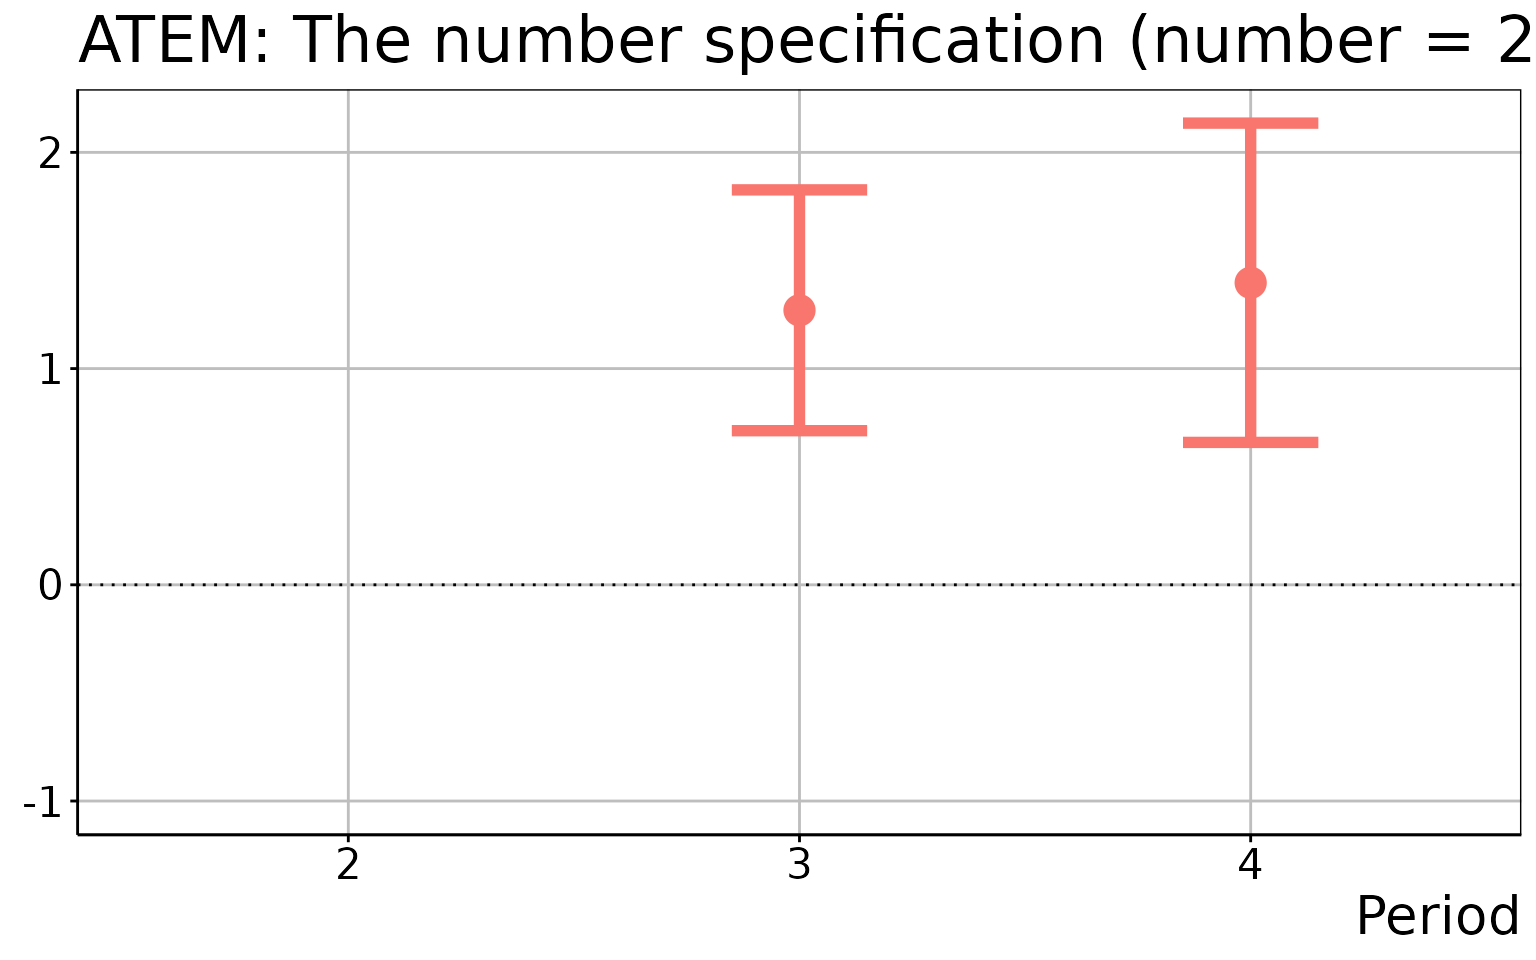
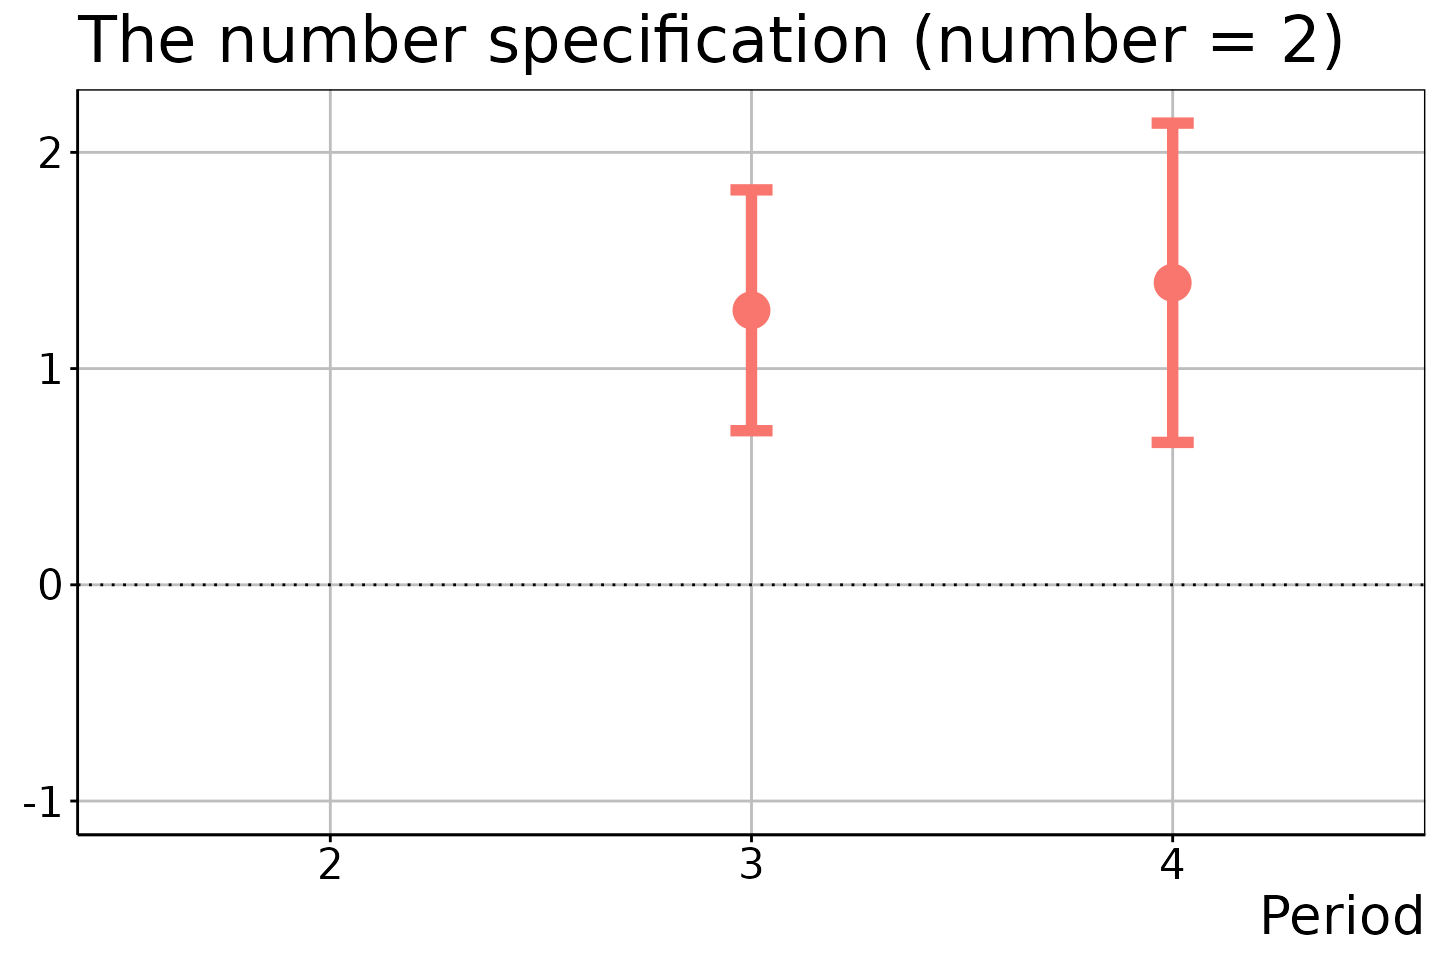
Deploying to gh-pages from @ tkhdyanagi/didet@1dc44ba9ccc61eaddae781d1908e3cdb4ddc4855 🚀

diff --git a/articles/didet.html b/articles/didet.html
@@ -26,7 +26,7 @@
     
     <a class="navbar-brand me-2" href="../index.html">didet</a>
 
-    <small class="nav-text text-muted me-auto" data-bs-toggle="tooltip" data-bs-placement="bottom" title="">0.1.3</small>
+    <small class="nav-text text-muted me-auto" data-bs-toggle="tooltip" data-bs-placement="bottom" title="">0.1.4</small>
 
     
     <button class="navbar-toggler" type="button" data-bs-toggle="collapse" data-bs-target="#navbar" aria-controls="navbar" aria-expanded="false" aria-label="Toggle navigation">
@@ -156,7 +156,8 @@ results for the probabilities of being movers.</li>
 <code>stayer</code>: A data.frame that collects the estimation
 results for the probabilities of being stayers.</li>
 <li>
-<code>figure</code>: A list that contains the figures for <span class="math inline">\(\mathrm{ATEM}(t,s,e)\)</span> and <span class="math inline">\(\mathrm{ATEM}(t, s, r, e)\)</span>.</li>
+<code>figure</code>: A list that contains the ggplot2 figures for
+<span class="math inline">\(\mathrm{ATEM}(t,s,e)\)</span> and <span class="math inline">\(\mathrm{ATEM}(t, s, r, e)\)</span>.</li>
 </ul>
 </div>
 </div>
@@ -224,15 +225,15 @@ approximately 0 under the parallel trends assumption.</p>
 <div class="sourceCode" id="cb5"><pre class="downlit sourceCode r">
 <code class="sourceCode R"><span><span class="co"># Event date = 2</span></span>
 <span><span class="va">did_est</span><span class="op">$</span><span class="va">figure</span><span class="op">$</span><span class="va">e2</span></span></code></pre></div>
-<p><img src="didet_files/figure-html/unnamed-chunk-6-1.png" width="768"></p>
+<p><img src="didet_files/figure-html/unnamed-chunk-6-1.png" width="720"></p>
 <div class="sourceCode" id="cb6"><pre class="downlit sourceCode r">
 <code class="sourceCode R"><span><span class="co"># Event date = 3</span></span>
 <span><span class="va">did_est</span><span class="op">$</span><span class="va">figure</span><span class="op">$</span><span class="va">e3</span></span></code></pre></div>
-<p><img src="didet_files/figure-html/unnamed-chunk-6-2.png" width="768"></p>
+<p><img src="didet_files/figure-html/unnamed-chunk-6-2.png" width="720"></p>
 <div class="sourceCode" id="cb7"><pre class="downlit sourceCode r">
 <code class="sourceCode R"><span><span class="co"># Event date = 4</span></span>
 <span><span class="va">did_est</span><span class="op">$</span><span class="va">figure</span><span class="op">$</span><span class="va">e4</span></span></code></pre></div>
-<p><img src="didet_files/figure-html/unnamed-chunk-6-3.png" width="768"></p>
+<p><img src="didet_files/figure-html/unnamed-chunk-6-3.png" width="720"></p>
 <p>In these figures, the dots and bars correspond to the ATEM estimates
 and <span class="math inline">\(1 - \alpha\)</span> uniform confidence
 bands, with the x-axis indicating the time period <span class="math inline">\(t\)</span>.</p>
@@ -263,7 +264,7 @@ bands, with the x-axis indicating the time period <span class="math inline">\(t\
 <p>The resulting figure is:</p>
 <div class="sourceCode" id="cb10"><pre class="downlit sourceCode r">
 <code class="sourceCode R"><span><span class="va">did_est</span><span class="op">$</span><span class="va">figure</span><span class="op">$</span><span class="va">e1</span></span></code></pre></div>
-<p><img src="didet_files/figure-html/unnamed-chunk-9-1.png" width="768"></p>
+<p><img src="didet_files/figure-html/unnamed-chunk-9-1.png" width="720"></p>
 </div>
 <div class="section level4">
 <h4 id="the-number-specification">The <em>number</em> specification<a class="anchor" aria-label="anchor" href="#the-number-specification"></a>
@@ -295,15 +296,15 @@ bands, with the x-axis indicating the time period <span class="math inline">\(t\
 <div class="sourceCode" id="cb13"><pre class="downlit sourceCode r">
 <code class="sourceCode R"><span><span class="co"># Number of treatment adoptions = 1</span></span>
 <span><span class="va">did_est</span><span class="op">$</span><span class="va">figure</span><span class="op">$</span><span class="va">e1</span></span></code></pre></div>
-<p><img src="didet_files/figure-html/unnamed-chunk-12-1.png" width="768"></p>
+<p><img src="didet_files/figure-html/unnamed-chunk-12-1.png" width="720"></p>
 <div class="sourceCode" id="cb14"><pre class="downlit sourceCode r">
 <code class="sourceCode R"><span><span class="co"># Number of treatment adoptions = 2</span></span>
 <span><span class="va">did_est</span><span class="op">$</span><span class="va">figure</span><span class="op">$</span><span class="va">e2</span></span></code></pre></div>
-<p><img src="didet_files/figure-html/unnamed-chunk-12-2.png" width="768"></p>
+<p><img src="didet_files/figure-html/unnamed-chunk-12-2.png" width="720"></p>
 <div class="sourceCode" id="cb15"><pre class="downlit sourceCode r">
 <code class="sourceCode R"><span><span class="co"># Number of treatment adoptions = 3</span></span>
 <span><span class="va">did_est</span><span class="op">$</span><span class="va">figure</span><span class="op">$</span><span class="va">e3</span></span></code></pre></div>
-<p><img src="didet_files/figure-html/unnamed-chunk-12-3.png" width="768"></p>
+<p><img src="didet_files/figure-html/unnamed-chunk-12-3.png" width="720"></p>
 <p>In the last two figures, the estimation results for <span class="math inline">\(t = 2\)</span> and <span class="math inline">\(t
 \in \{ 2, 3 \}\)</span> are suppressed because no units experienced the
 two and three times of treatment adoptions in these time periods.</p>

diff --git a/authors.html b/authors.html
@@ -10,7 +10,7 @@
     
     <a class="navbar-brand me-2" href="index.html">didet</a>
 
-    <small class="nav-text text-muted me-auto" data-bs-toggle="tooltip" data-bs-placement="bottom" title="">0.1.3</small>
+    <small class="nav-text text-muted me-auto" data-bs-toggle="tooltip" data-bs-placement="bottom" title="">0.1.4</small>
 
     
     <button class="navbar-toggler" type="button" data-bs-toggle="collapse" data-bs-target="#navbar" aria-controls="navbar" aria-expanded="false" aria-label="Toggle navigation">
@@ -61,13 +61,13 @@
 
       <p>Yanagi T (2023).
 <em>didet: An Effective Treatment Approach to Difference-in-Differences with General Treatment Patterns</em>.
-R package version 0.1.3, <a href="https://tkhdyanagi.github.io/didet/">https://tkhdyanagi.github.io/didet/</a>. 
+R package version 0.1.4, <a href="https://tkhdyanagi.github.io/didet/">https://tkhdyanagi.github.io/didet/</a>. 
 </p>
       <pre>@Manual{,
   title = {didet: An Effective Treatment Approach to Difference-in-Differences with General Treatment Patterns},
   author = {Takahide Yanagi},
   year = {2023},
-  note = {R package version 0.1.3},
+  note = {R package version 0.1.4},
   url = {https://tkhdyanagi.github.io/didet/},
 }</pre>
     </div>

diff --git a/news/index.html b/news/index.html
@@ -10,7 +10,7 @@
     
     <a class="navbar-brand me-2" href="../index.html">didet</a>
 
-    <small class="nav-text text-muted me-auto" data-bs-toggle="tooltip" data-bs-placement="bottom" title="">0.1.3</small>
+    <small class="nav-text text-muted me-auto" data-bs-toggle="tooltip" data-bs-placement="bottom" title="">0.1.4</small>
 
     
     <button class="navbar-toggler" type="button" data-bs-toggle="collapse" data-bs-target="#navbar" aria-controls="navbar" aria-expanded="false" aria-label="Toggle navigation">
@@ -47,6 +47,10 @@
       
     </div>
 
+    <div class="section level2">
+<h2 class="pkg-version" data-toc-text="0.1.4" id="didet-014">didet 0.1.4<a class="anchor" aria-label="anchor" href="#didet-014"></a></h2>
+<ul><li>Improved figures</li>
+</ul></div>
     <div class="section level2">
 <h2 class="pkg-version" data-toc-text="0.1.3" id="didet-013">didet 0.1.3<a class="anchor" aria-label="anchor" href="#didet-013"></a></h2>
 <ul><li>Updated vignettes</li>

diff --git a/reference/didet.html b/reference/didet.html
@@ -18,7 +18,7 @@ For more details, see the package vignette with `vignette("didet")` and
     
     <a class="navbar-brand me-2" href="../index.html">didet</a>
 
-    <small class="nav-text text-muted me-auto" data-bs-toggle="tooltip" data-bs-placement="bottom" title="">0.1.3</small>
+    <small class="nav-text text-muted me-auto" data-bs-toggle="tooltip" data-bs-placement="bottom" title="">0.1.4</small>
 
     
     <button class="navbar-toggler" type="button" data-bs-toggle="collapse" data-bs-target="#navbar" aria-controls="navbar" aria-expanded="false" aria-label="Toggle navigation">
@@ -138,7 +138,7 @@ Default is 1000.</p></dd>
 <dd><p>A data.frame that collects results for the probability of stayer</p></dd>
 
 <dt>figure</dt>
-<dd><p>A list that contains the figures for ATEM(t,s,e)</p></dd>
+<dd><p>A list that contains the ggplot2 figures for ATEM(t,s,e)</p></dd>
 
 </dl></div>
     <div class="section level2">

diff --git a/reference/datageneration.html b/reference/datageneration.html
@@ -14,7 +14,7 @@ in Yanagi (2023)."><!-- mathjax --><script src="https://cdnjs.cloudflare.com/aja
     
     <a class="navbar-brand me-2" href="../index.html">didet</a>
 
-    <small class="nav-text text-muted me-auto" data-bs-toggle="tooltip" data-bs-placement="bottom" title="">0.1.3</small>
+    <small class="nav-text text-muted me-auto" data-bs-toggle="tooltip" data-bs-placement="bottom" title="">0.1.4</small>
 
     
     <button class="navbar-toggler" type="button" data-bs-toggle="collapse" data-bs-target="#navbar" aria-controls="navbar" aria-expanded="false" aria-label="Toggle navigation">

diff --git a/404.html b/404.html
@@ -24,7 +24,7 @@
     
     <a class="navbar-brand me-2" href="https://tkhdyanagi.github.io/didet/index.html">didet</a>
 
-    <small class="nav-text text-muted me-auto" data-bs-toggle="tooltip" data-bs-placement="bottom" title="">0.1.3</small>
+    <small class="nav-text text-muted me-auto" data-bs-toggle="tooltip" data-bs-placement="bottom" title="">0.1.4</small>
 
     
     <button class="navbar-toggler" type="button" data-bs-toggle="collapse" data-bs-target="#navbar" aria-controls="navbar" aria-expanded="false" aria-label="Toggle navigation">

diff --git a/articles/index.html b/articles/index.html
@@ -10,7 +10,7 @@
     
     <a class="navbar-brand me-2" href="../index.html">didet</a>
 
-    <small class="nav-text text-muted me-auto" data-bs-toggle="tooltip" data-bs-placement="bottom" title="">0.1.3</small>
+    <small class="nav-text text-muted me-auto" data-bs-toggle="tooltip" data-bs-placement="bottom" title="">0.1.4</small>
 
     
     <button class="navbar-toggler" type="button" data-bs-toggle="collapse" data-bs-target="#navbar" aria-controls="navbar" aria-expanded="false" aria-label="Toggle navigation">

diff --git a/articles/review.html b/articles/review.html
@@ -26,7 +26,7 @@
     
     <a class="navbar-brand me-2" href="../index.html">didet</a>
 
-    <small class="nav-text text-muted me-auto" data-bs-toggle="tooltip" data-bs-placement="bottom" title="">0.1.3</small>
+    <small class="nav-text text-muted me-auto" data-bs-toggle="tooltip" data-bs-placement="bottom" title="">0.1.4</small>
 
     
     <button class="navbar-toggler" type="button" data-bs-toggle="collapse" data-bs-target="#navbar" aria-controls="navbar" aria-expanded="false" aria-label="Toggle navigation">

diff --git a/reference/index.html b/reference/index.html
@@ -10,7 +10,7 @@
     
     <a class="navbar-brand me-2" href="../index.html">didet</a>
 
-    <small class="nav-text text-muted me-auto" data-bs-toggle="tooltip" data-bs-placement="bottom" title="">0.1.3</small>
+    <small class="nav-text text-muted me-auto" data-bs-toggle="tooltip" data-bs-placement="bottom" title="">0.1.4</small>
 
     
     <button class="navbar-toggler" type="button" data-bs-toggle="collapse" data-bs-target="#navbar" aria-controls="navbar" aria-expanded="false" aria-label="Toggle navigation">

diff --git a/LICENSE-text.html b/LICENSE-text.html
@@ -10,7 +10,7 @@
     
     <a class="navbar-brand me-2" href="index.html">didet</a>
 
-    <small class="nav-text text-muted me-auto" data-bs-toggle="tooltip" data-bs-placement="bottom" title="">0.1.3</small>
+    <small class="nav-text text-muted me-auto" data-bs-toggle="tooltip" data-bs-placement="bottom" title="">0.1.4</small>
 
     
     <button class="navbar-toggler" type="button" data-bs-toggle="collapse" data-bs-target="#navbar" aria-controls="navbar" aria-expanded="false" aria-label="Toggle navigation">

diff --git a/LICENSE.html b/LICENSE.html
@@ -10,7 +10,7 @@
     
     <a class="navbar-brand me-2" href="index.html">didet</a>
 
-    <small class="nav-text text-muted me-auto" data-bs-toggle="tooltip" data-bs-placement="bottom" title="">0.1.3</small>
+    <small class="nav-text text-muted me-auto" data-bs-toggle="tooltip" data-bs-placement="bottom" title="">0.1.4</small>
 
     
     <button class="navbar-toggler" type="button" data-bs-toggle="collapse" data-bs-target="#navbar" aria-controls="navbar" aria-expanded="false" aria-label="Toggle navigation">

diff --git a/index.html b/index.html
@@ -34,7 +34,7 @@
     
     <a class="navbar-brand me-2" href="index.html">didet</a>
 
-    <small class="nav-text text-muted me-auto" data-bs-toggle="tooltip" data-bs-placement="bottom" title="">0.1.3</small>
+    <small class="nav-text text-muted me-auto" data-bs-toggle="tooltip" data-bs-placement="bottom" title="">0.1.4</small>
 
     
     <button class="navbar-toggler" type="button" data-bs-toggle="collapse" data-bs-target="#navbar" aria-controls="navbar" aria-expanded="false" aria-label="Toggle navigation">
